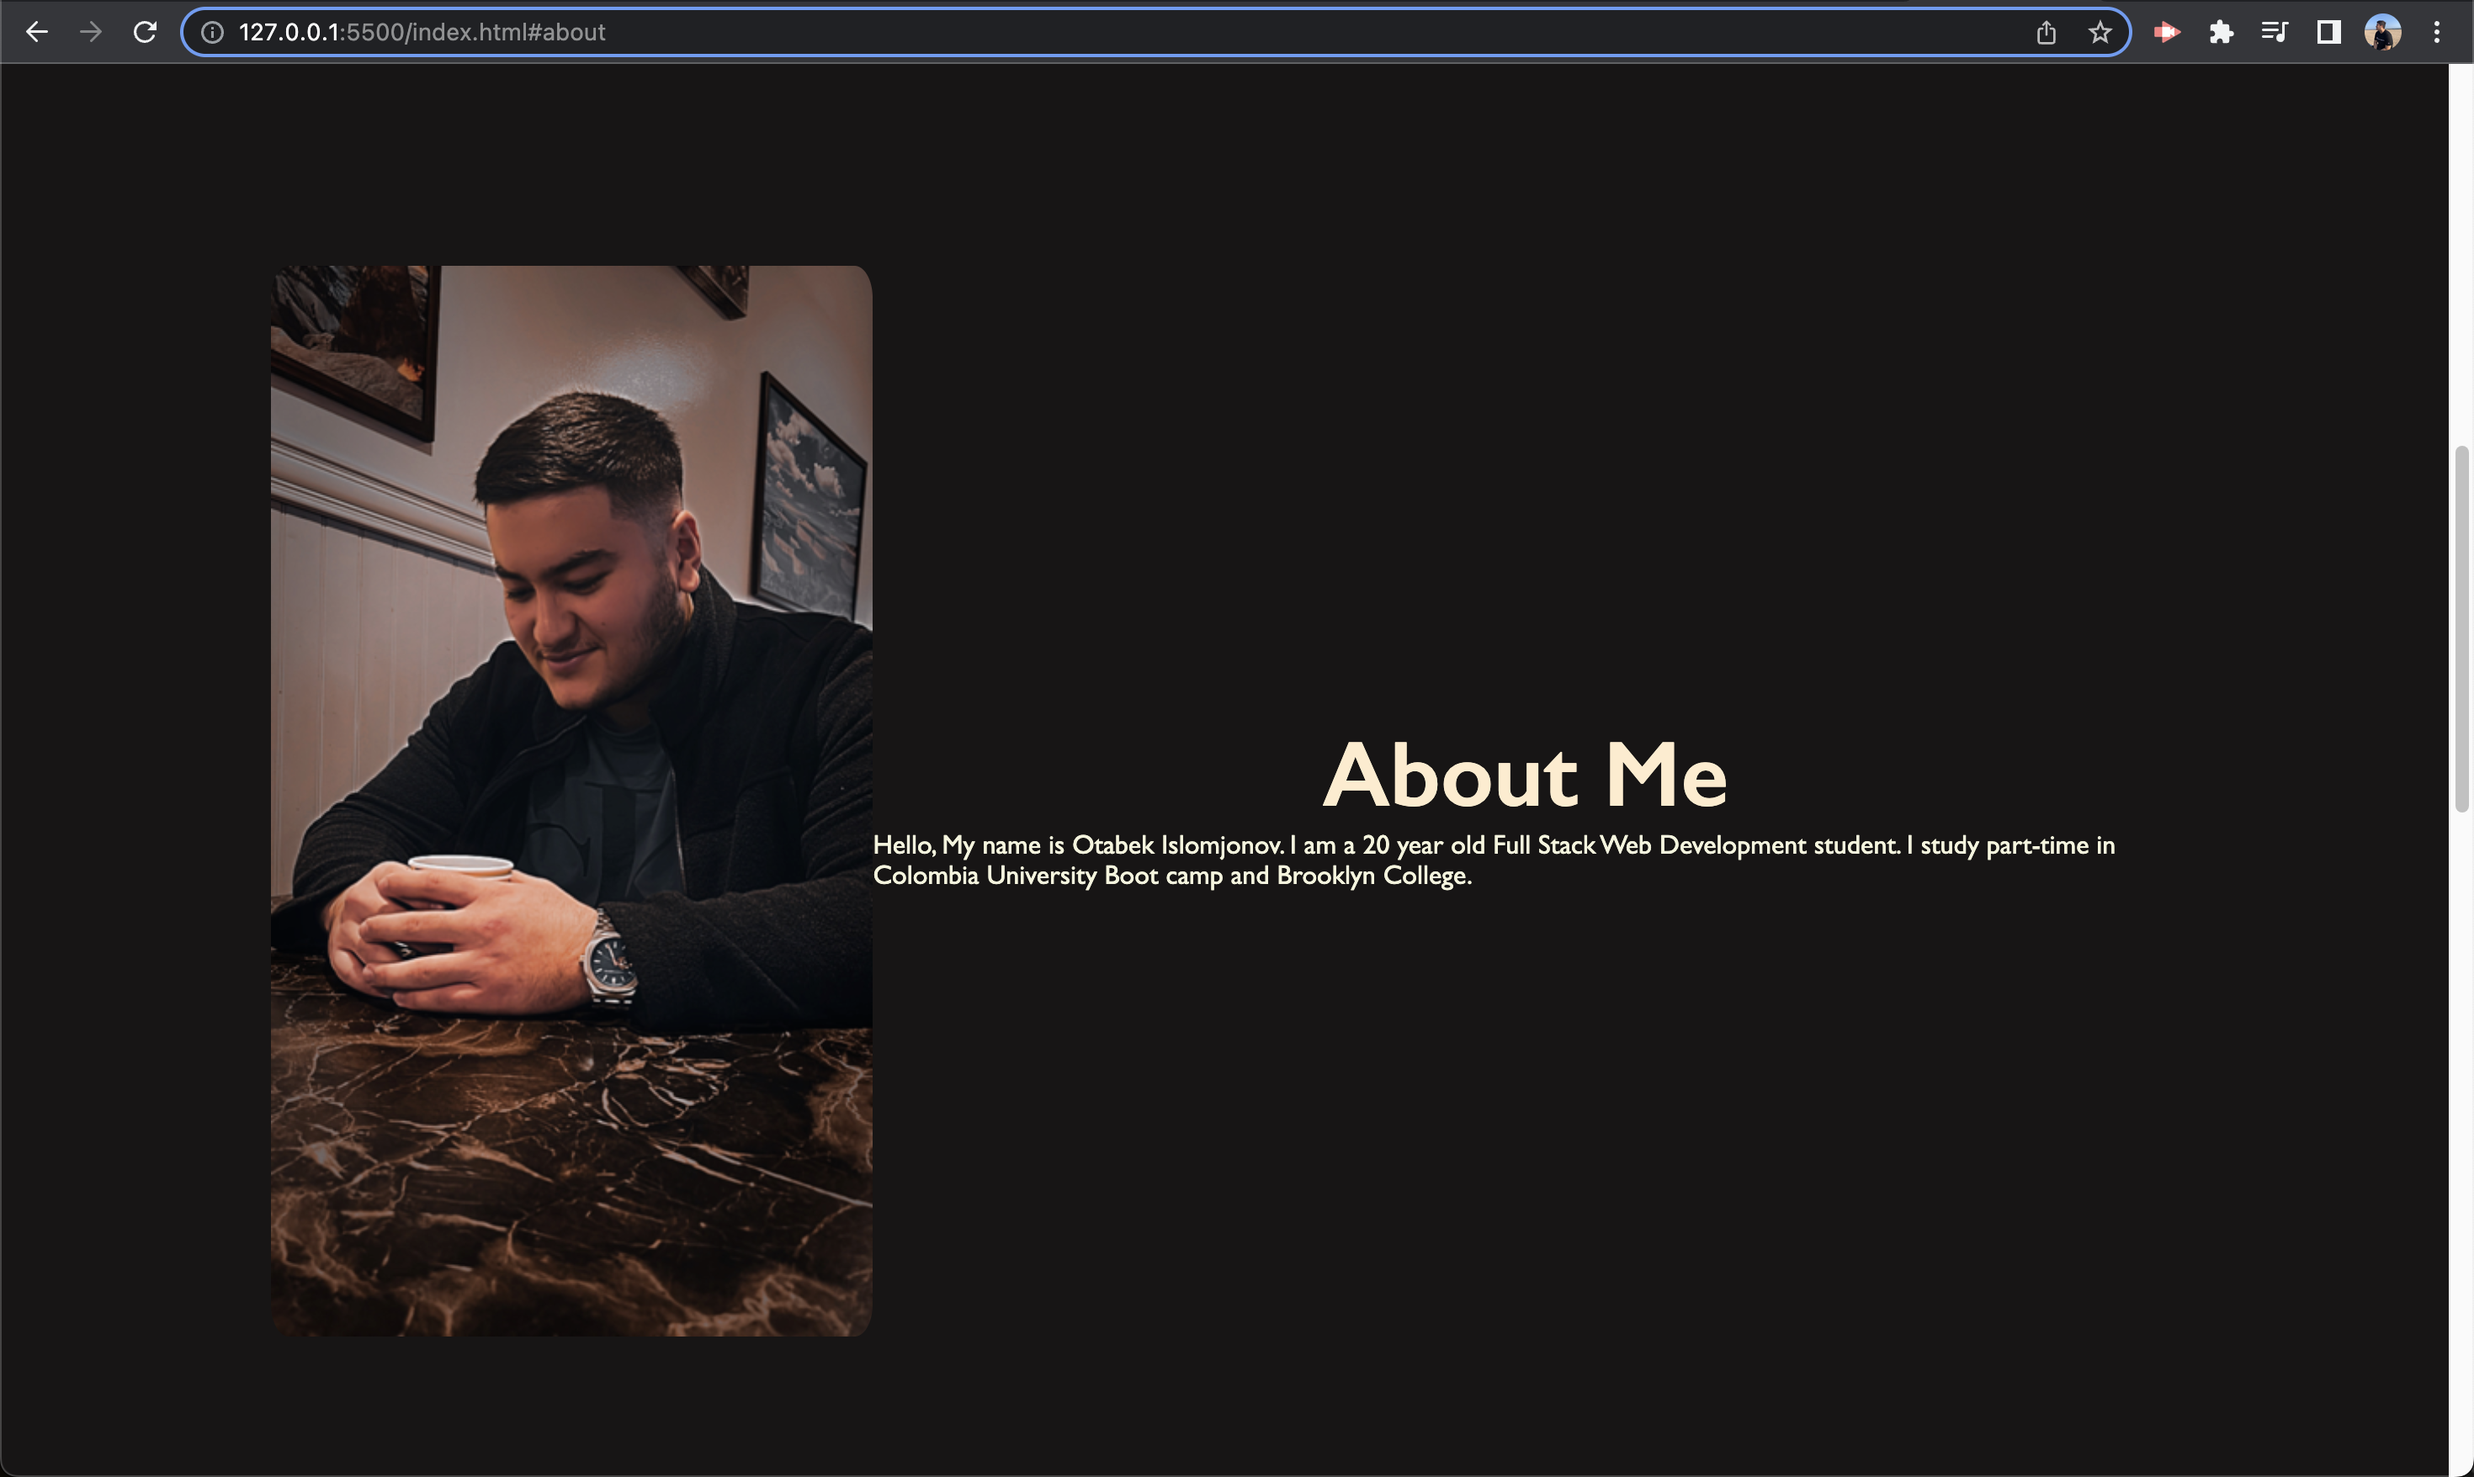
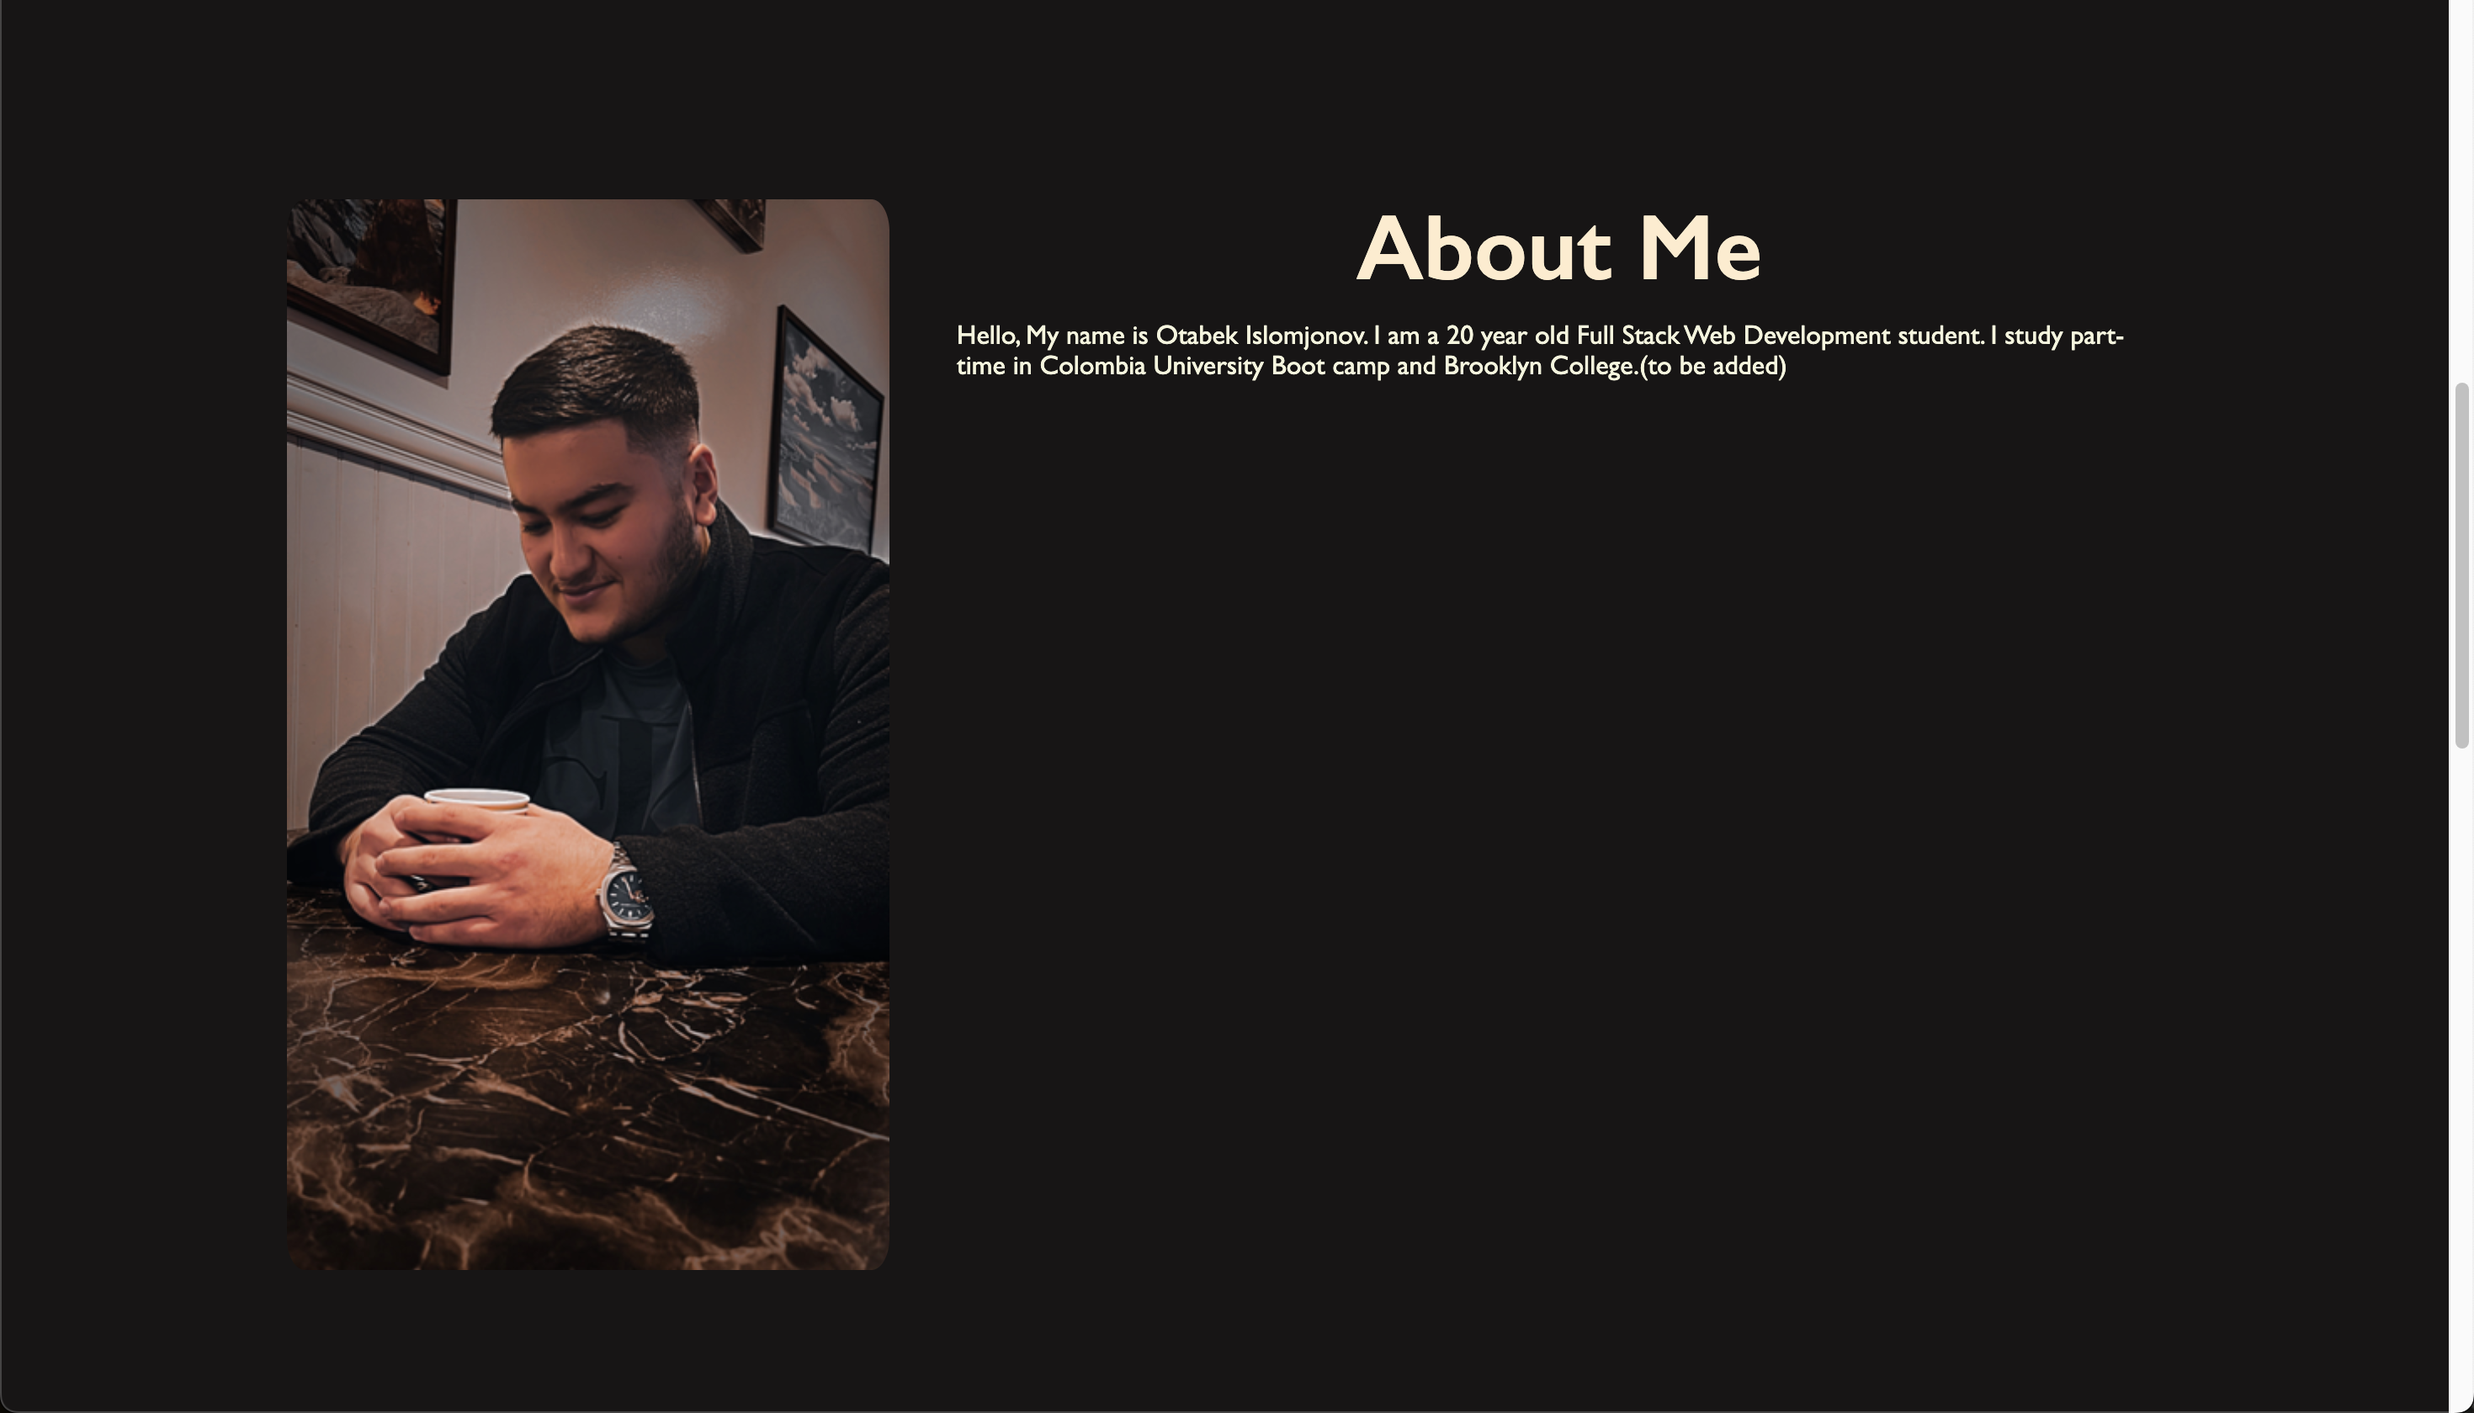
updated css and readme commit

diff --git a/assets/css/style.css b/assets/css/style.css
@@ -69,31 +69,48 @@ nav ul li a:hover::after {
 }
 
 /* Styling for the About Me section */
+
+/* style about me section */
 #about {
     color: beige;
     padding: 90px 0;
     background-color: rgba(24, 23, 23, 0.835);
-}
-
-/* Creating a row and space between the image and text */
-.row {
+  }
+  
+  .row {
     display: flex;
     justify-content: space-between;
     flex-wrap: wrap;
-}
-
-.about-img {
+  }
+    /* styling for the about me image */
+  .about-img {
     flex-basis: 30%;
-}
-
-.about-img img {
+    margin-right: 40px;
+  }
+    /* styling for the about me image */
+  .about-img img {
     width: 100%;
     border-radius: 3%;
-}
+  }
+  /* styling for the about me text */
+  .about-txt {
+    flex-basis: 60%;
+    display: flex;
+    flex-direction: column;
+    justify-content: flex-start;
+    margin-bottom: 45%; 
 
-.about-txt {
-    flex-basis: 65%;
-}
+  }
+  
+  .about-txts {
+    color: blanchedalmond;
+    font-size: 55px;
+    font-weight: 600;
+    margin-bottom: 10px;
+  }
+  
+
+  
 
 /* Styling for the text in the About Me section */
 .about-txts {
@@ -110,14 +127,13 @@ nav ul li a:hover::after {
 .container {
     width: 100%;
     max-width: 960px;
-    margin: 0 auto;
+    margin: 0 ;
     padding: 20px;
 }
 
 .about-txts {
     text-align: center;
 }
-
 .worklist {
     display: flex;
     justify-content: space-between;
@@ -195,6 +211,7 @@ nav ul li a:hover::after {
     color: beige;
     padding: 90px 0;
     background-color: rgba(24, 23, 23, 0.835);
+    font-size: 20px;
 }
 
 .container {

diff --git a/index.html b/index.html
@@ -10,6 +10,7 @@
 </head>
 
 <body>
+    <!-- section for the heading of the application top of the page -->
     <header>
         <div class="contain">
             <nav>
@@ -32,7 +33,7 @@
                 </div>
                 <div class="about-txt">
                     <h1 class="about-txts"> About Me</h1>
-                    <p> Hello, My name is Otabek Islomjonov. I am a 20 year old Full Stack Web Development student. I study part-time in Colombia University Boot camp and Brooklyn College. </p>
+                    <p> Hello, My name is Otabek Islomjonov. I am a 20 year old Full Stack Web Development student. I study part-time in Colombia University Boot camp and Brooklyn College.(to be added) </p>
                 </div>
             </article>
         </article>
@@ -104,7 +105,7 @@
                 <h1 class="contact"> Contact Me </h1>
                 <p>Telephone : 347-977-6767</p>
                 <p>Email : Otabek.islomjonov11@gmail.com</p>
-                <p>Github : <href="https://github.com/Otabek0111"></href><src="https://github.com/Otabek0111"> https://github.com/Otabek0111</p>
+                <p>Github :  https://github.com/Otabek0111</p>
                 <p>LinkedIn : To be created </p>
                 <div class="icons">
                     <a href=""><i class="fa-regular fa-square-phone"></i> </a>

diff --git a/README.md b/README.md
@@ -15,19 +15,19 @@ This repository contains the source code and assets for creating a professional 
 
 ## Screen Shots of the application
 
-Screen shot 1 
+Screen shot 1: Top of the Webpage.
 
 ![](assets/images/Screenshot-1.png)
 
-Screen shot 2
+Screen shot 2: About Me section.
 
 ![](assets/images/Screenshot-2.png)
 
-Screen shot 3
+Screen shot 3: My Work section.
 
 ![](assets/images/Screenshot-3.png)
 
-Screen shot 4
+Screen shot 4: Bottom section, Contact me.
 
 ![](assets/images/Screenshot-4.png)
 
@@ -76,4 +76,4 @@ This project is licensed under the [MIT License](LICENSE).
 
 - Recieved help from Tutors/BCS learning center to fix bugs and issues.
 
-- Followed a similar template from this resource:https://www.youtube.com/watch?v=Tkp3FDgOueM.
+- Took example from a similar template from this resource: https://www.youtube.com/watch?v=Tkp3FDgOueM.
